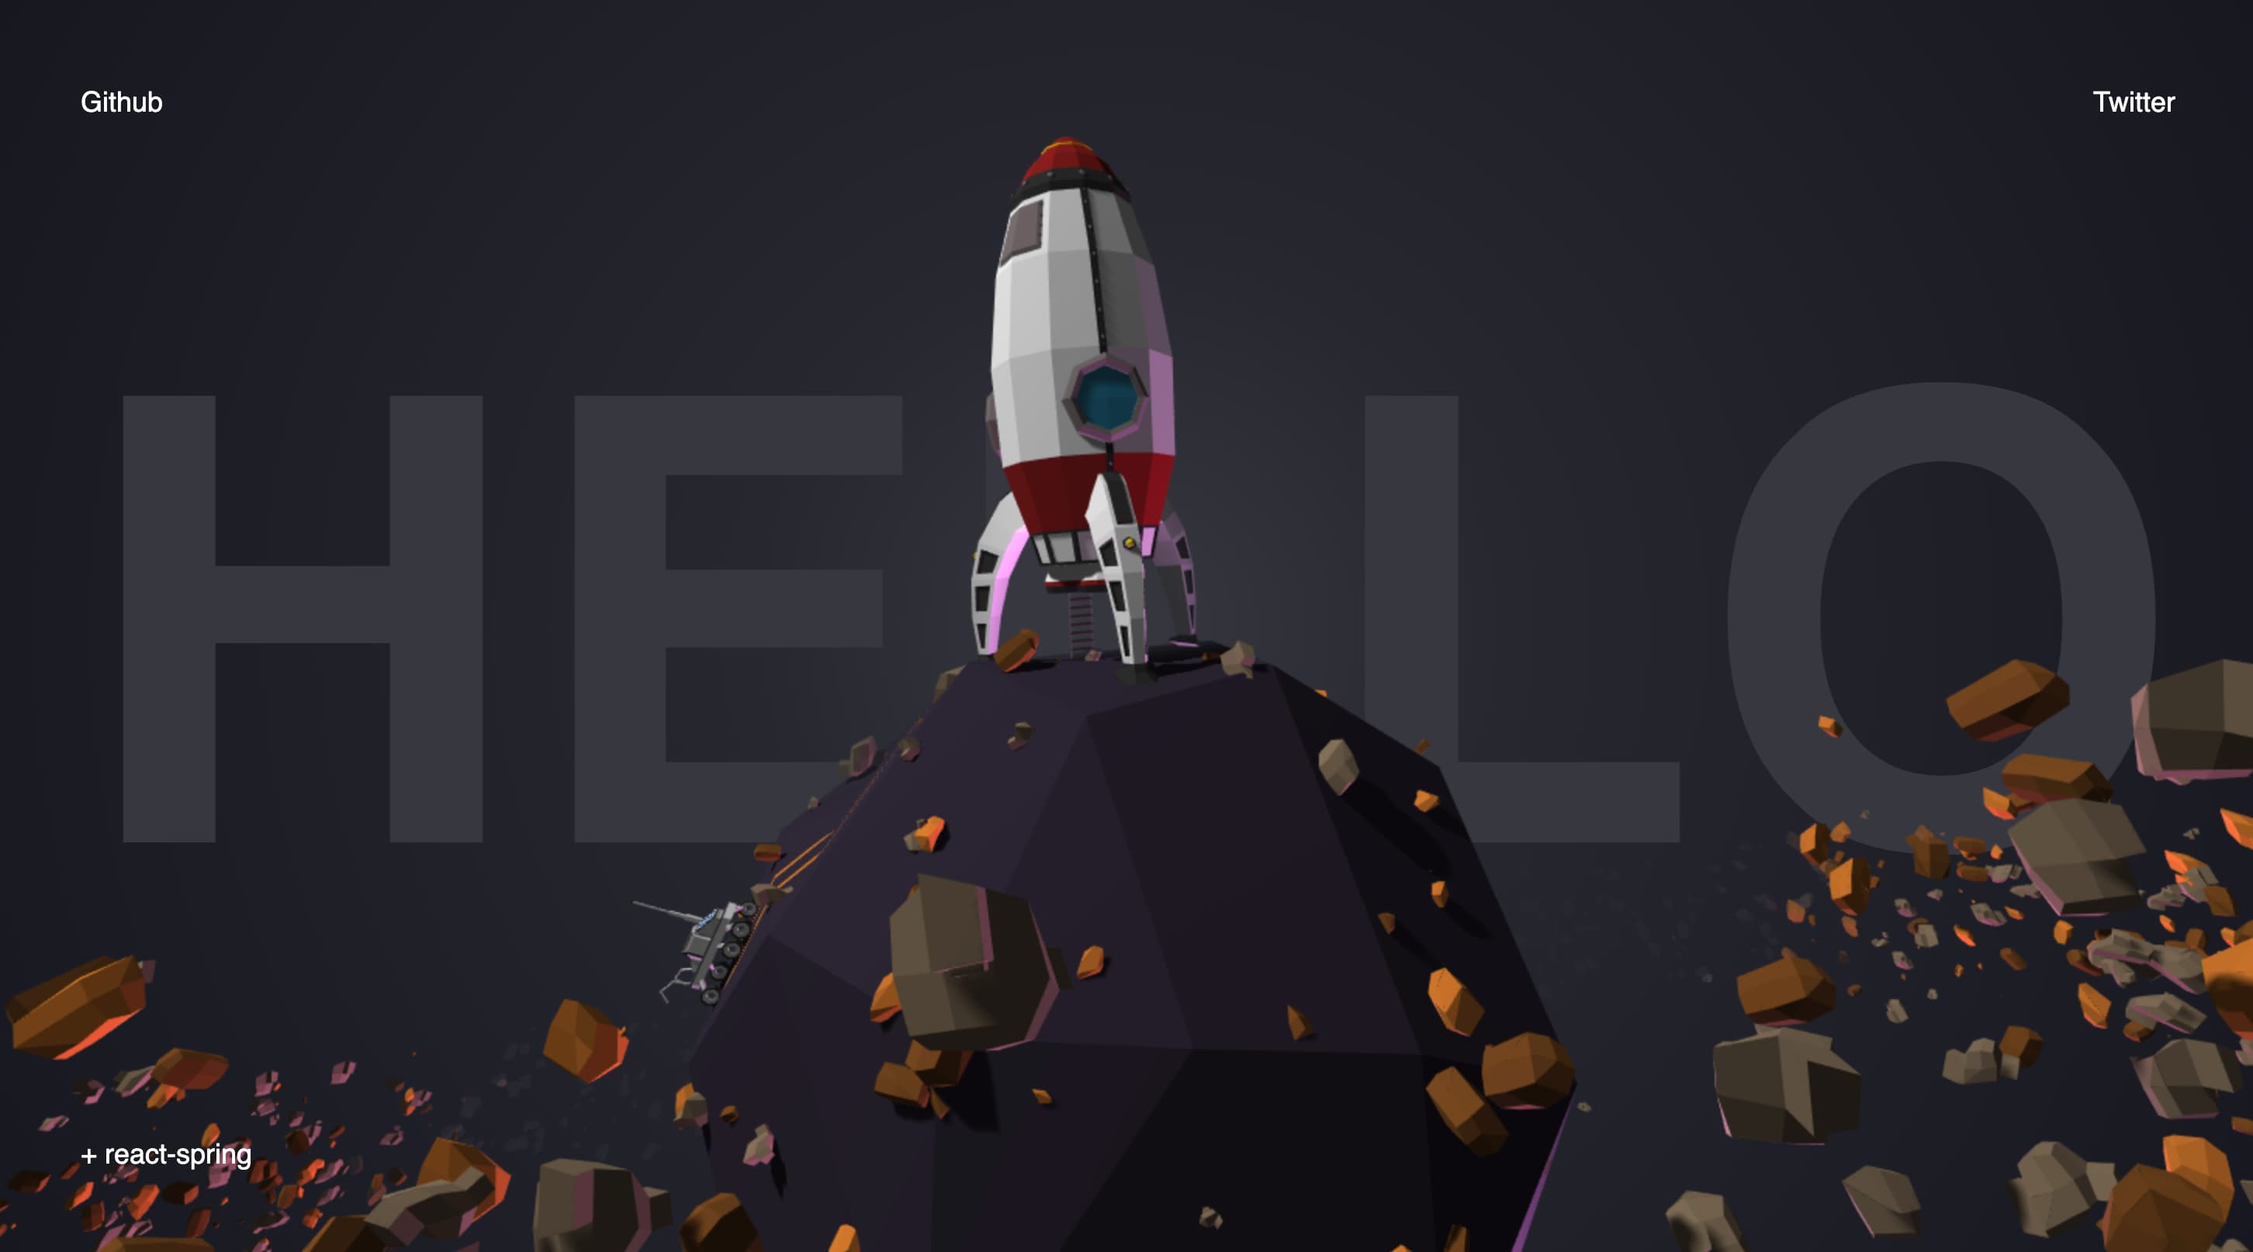
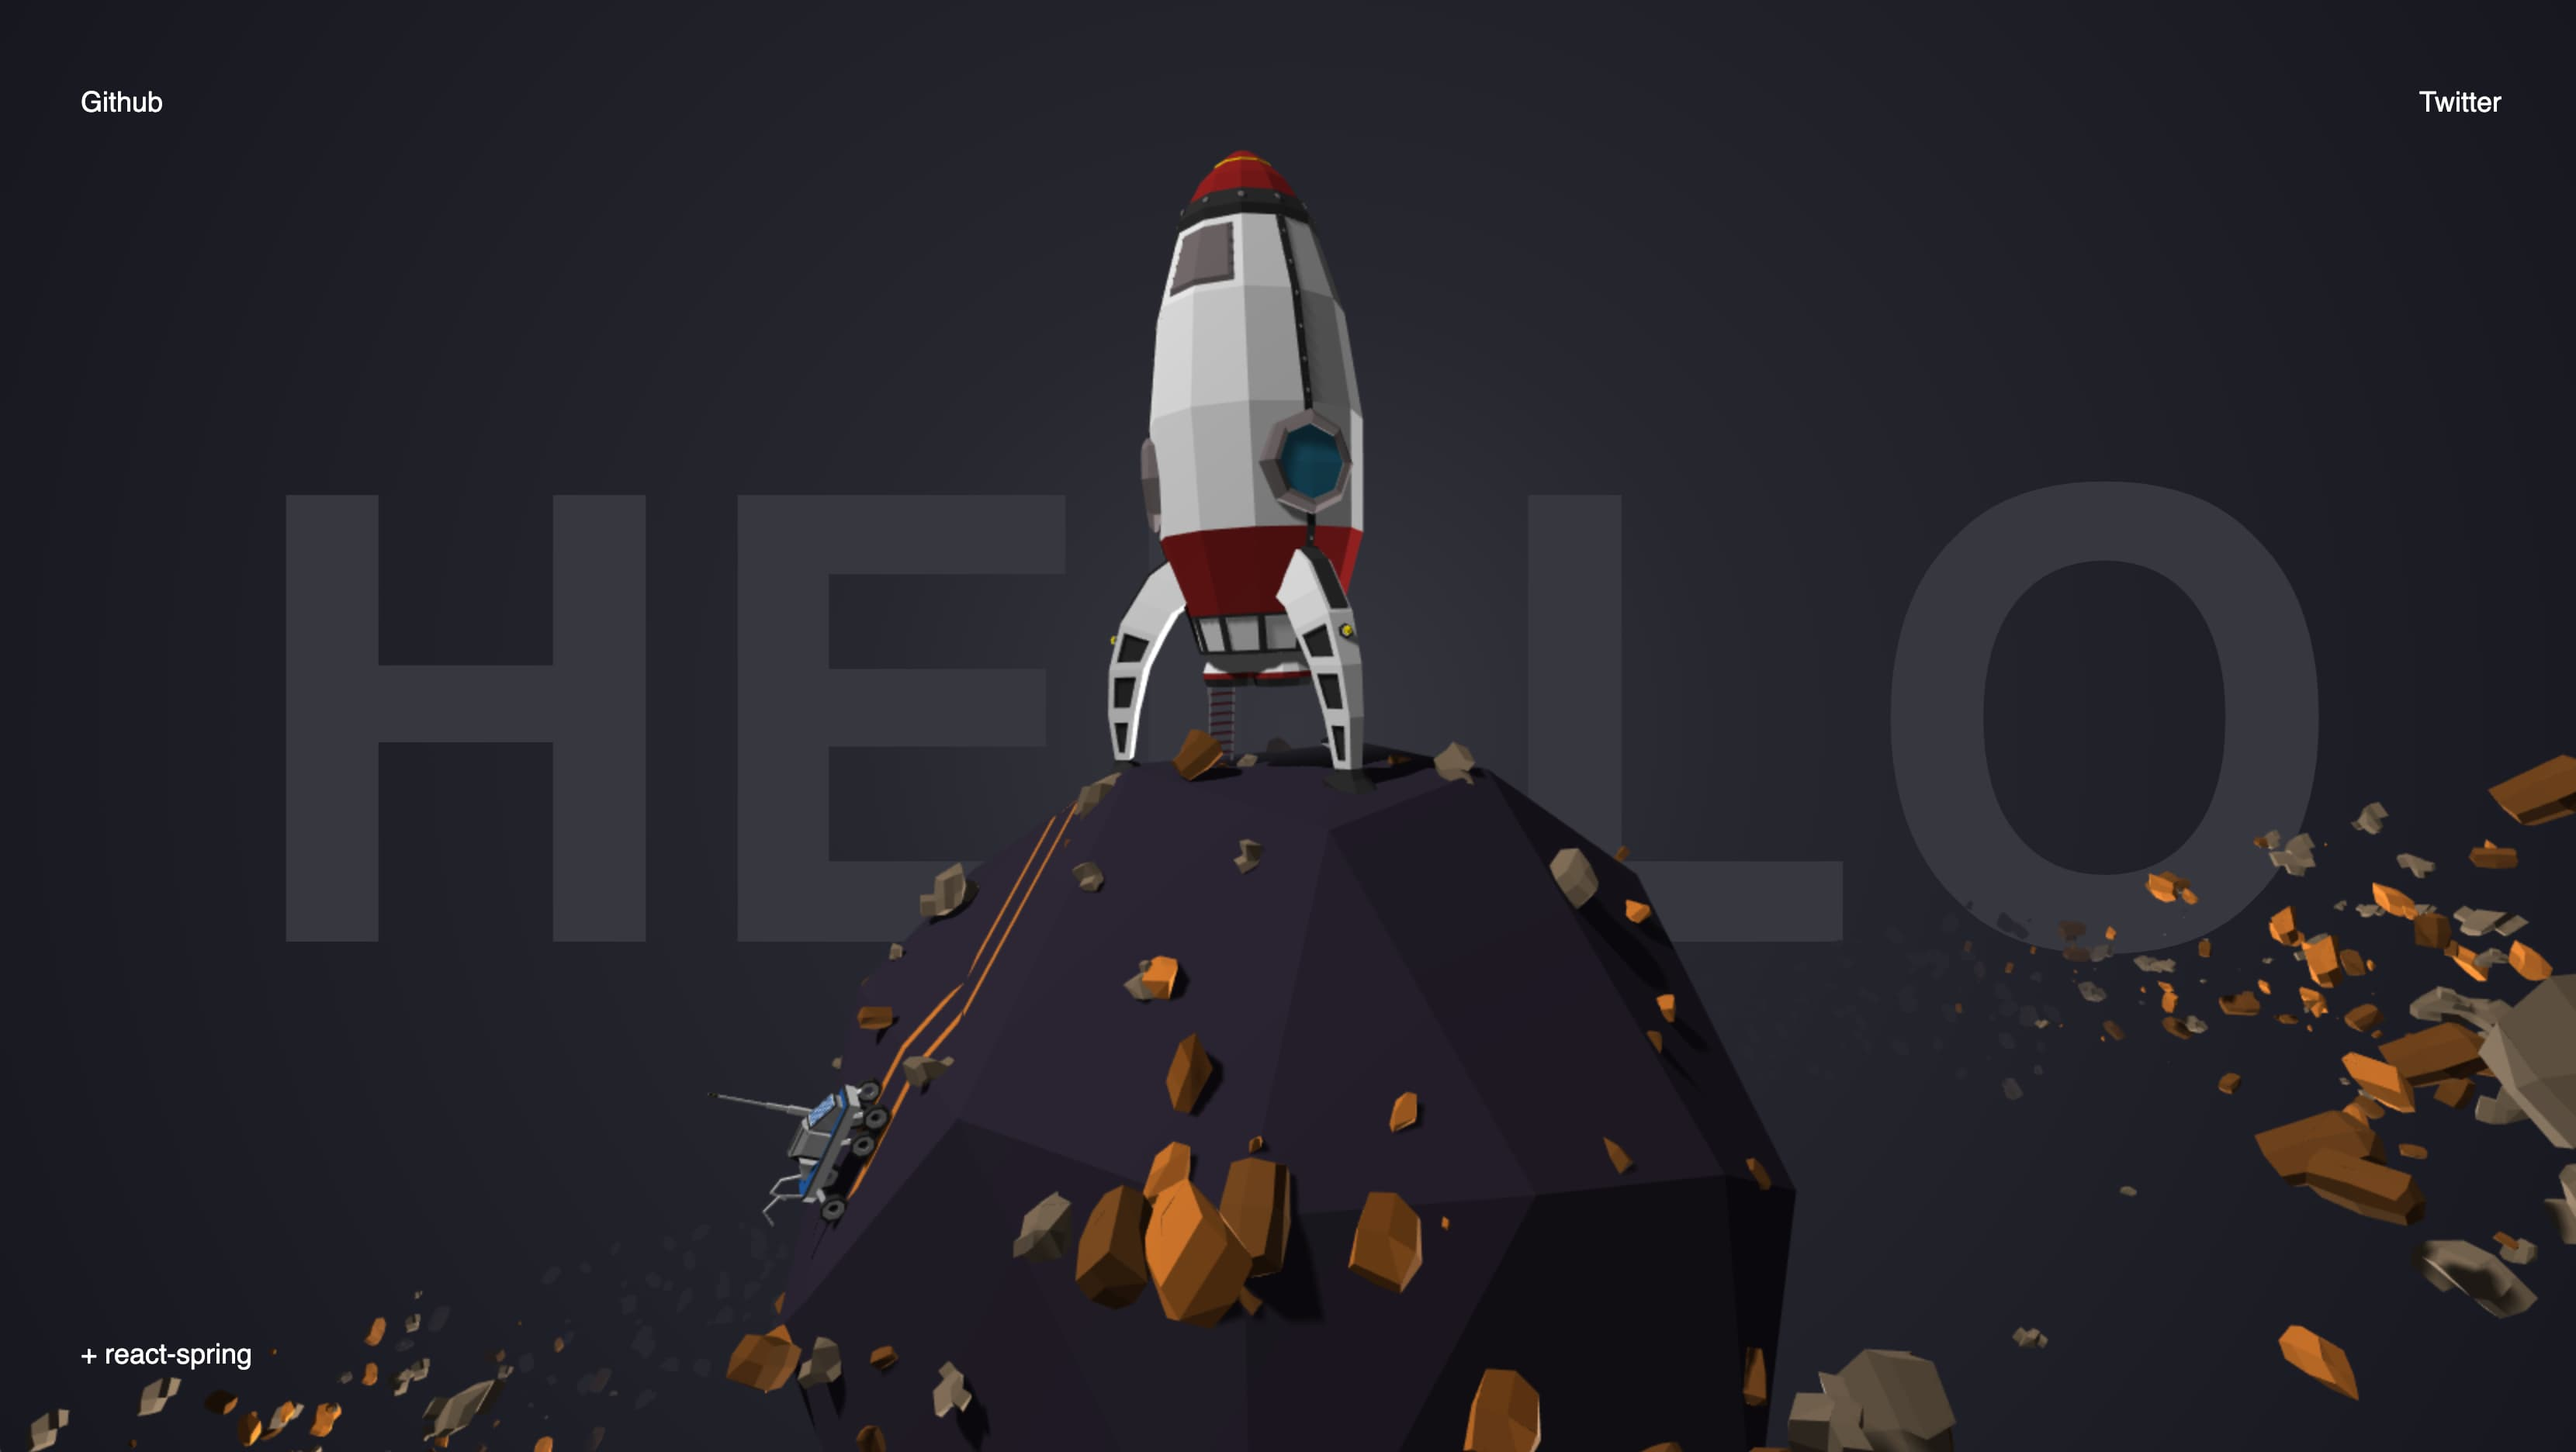
remove violet light

diff --git a/src/App.js b/src/App.js
@@ -47,7 +47,7 @@ export default function App() {
           gl.shadowMap.type = THREE.PCFSoftShadowMap
         }}>
         <ambientLight intensity={0.5} />
-        <pointLight intensity={2} position={[-10, -25, -10]} color="violet" />
+        <pointLight intensity={2} position={[-10, -25, -10]} />
         <spotLight
           castShadow
           intensity={1.25}
